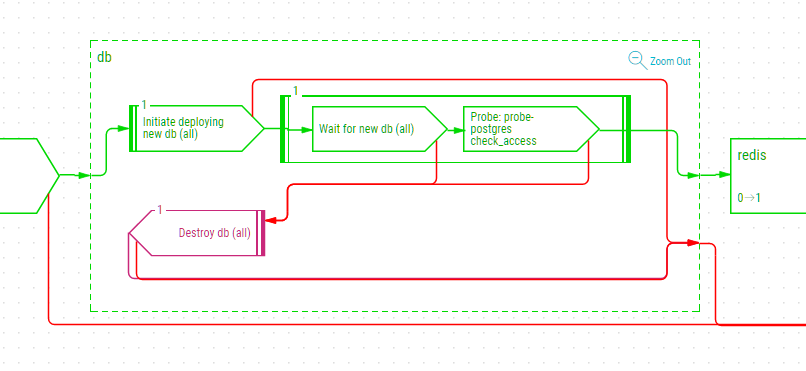
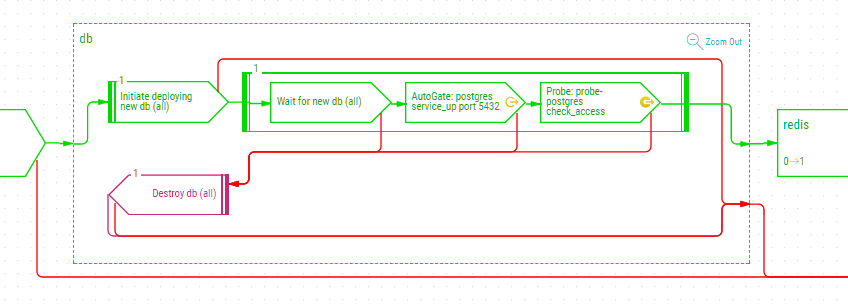
update readme in respect of visual changes and automatic quality gates

Changed region(s): [[0.0, 0.059, 1.0, 0.9148]]

diff --git a/README.md b/README.md
@@ -10,9 +10,9 @@ _Note: this sample application uses the Skopos "edge" release which has all the 
 
 Skopos Sample Application
 ==========================
-This Skopos sample application is a scalable variant of the Docker example Pet Voting Application.  Notably, this application uses Skopos quality gates to validate its deployment.  [Quality gates](http://doc.opsani.com/skopos/edge/QUALITY-GATES/) attach user defined actions to components in order to *gate* the success of component deployment.
+This Skopos sample application is a scalable variant of the Docker example Pet Voting Application.  Notably, this application uses Skopos quality gates to validate its deployment.  [User defined quality gates](http://doc.opsani.com/skopos/edge/VERIFY-GUIDE#user-quality-gates) attach actions to components in order to *gate* the success of component deployment.  This application also demonstrates Skopos [automatic quality gates](http://doc.opsani.com/skopos/edge/VERIFY-GUIDE#autogates):  these are quality gates which Skopos automatically adds to deployment plans for components based on known images.
 
-This sample application deploys to Docker Swarm and exposes two web interfaces - one that allows votes to be cast and one that shows results.
+The sample application deploys to Docker Swarm and exposes two web interfaces - one that allows votes to be cast and one that shows results.
 
 ![skopos sample app](images/skopos-sample-gates.png)
 
@@ -50,7 +50,7 @@ The sample application is comprised of the following descriptors:
 
 * [model.yaml](/model.yaml) - application model
 * [env-swarm.yaml](/env-swarm.yaml) - basic [TED file](http://doc.opsani.com/skopos/edge/TED-GUIDE/) specifying core plugin and variables (e.g., port numbers, replicas)
-* [env-quality-gates.yaml](/env-quality-gates.yaml) - TED file specifying quality gates
+* [env-quality-gates.yaml](/env-quality-gates.yaml) - TED file specifying user defined quality gates
 
 Use `sks-ctl` to load the sample application (add `--bind hostname:port` after `sks-ctl` if Skopos is not running locally on port 8100):
 
@@ -110,7 +110,12 @@ quality_gates:
                 action: check_access
 ```
 
-These checks are injected in the Skopos generated deployment plan for components deployed with matching images.  The quality gate checks are visible as steps in the Skopos UI plan view:  mouse-click on any of the `db`, `redis`, `result` or `vote` components to zoom-in the component plan details.  Here you can see the injected quality gate step for that component.  For example, the `db` component uses the Skopos [postgres probe](https://github.com/opsani/probe-postgres) to verify the postgres API is accessible on the component's service network:
+These checks are injected in the Skopos generated deployment plan for components deployed with matching images.  The quality gate checks are visible as steps in the Skopos UI plan view:  mouse-click on any of the `db`, `redis`, `result` or `vote` components to zoom-in the component plan details.  Here you can see the injected quality gate step(s) for that component.
+
+For example, the `db` component includes two quality gates which use the Skopos [postgres probe](https://github.com/opsani/probe-postgres) to verify the postgres service is up and its API is accessible on the component's service network:
+
+* *automatic quality gate*: Skopos includes an automatic quality gate for the `db` component because it is based on the official postgres image.  This gate verifies the postgres service is up on port 5432.  The *service_up* check will succeed if the postgres service is up, even if the connect response is authentication failure or invalid database.
+* *user defined quality gate*:  this quality gate comes from the `env-quality-gates.yaml` TED file and verifies the postgres API is accessible on the component's service network using the probe default user, password and database (these are configurable).
 
 ![skopos sample app](images/db-plan-details.png)
 
@@ -118,7 +123,7 @@ A Skopos probe packages a service healthcheck as a container.  During applicatio
 
 ### Deploy the Sample App
 
-Deploy the application using the UI controls (*Start* icon to upper left).  If you follow the deployment progress in the Skopos Plan view, you can observe the deployment of each of the `db`, `redis`, `result` and `vote` components is validated by its associated quality gate.
+Deploy the application using the UI controls (*Start* icon to upper left).  If you follow the deployment progress in the Skopos Plan view, you can observe the deployment of each of the `db`, `redis`, `result` and `vote` components is validated by its associated quality gate(s).
 
 The application can also be deployed using the Skopos CLI (add `--bind hostname:port` after `sks-ctl` if Skopos is not running locally on port 8100):
 
